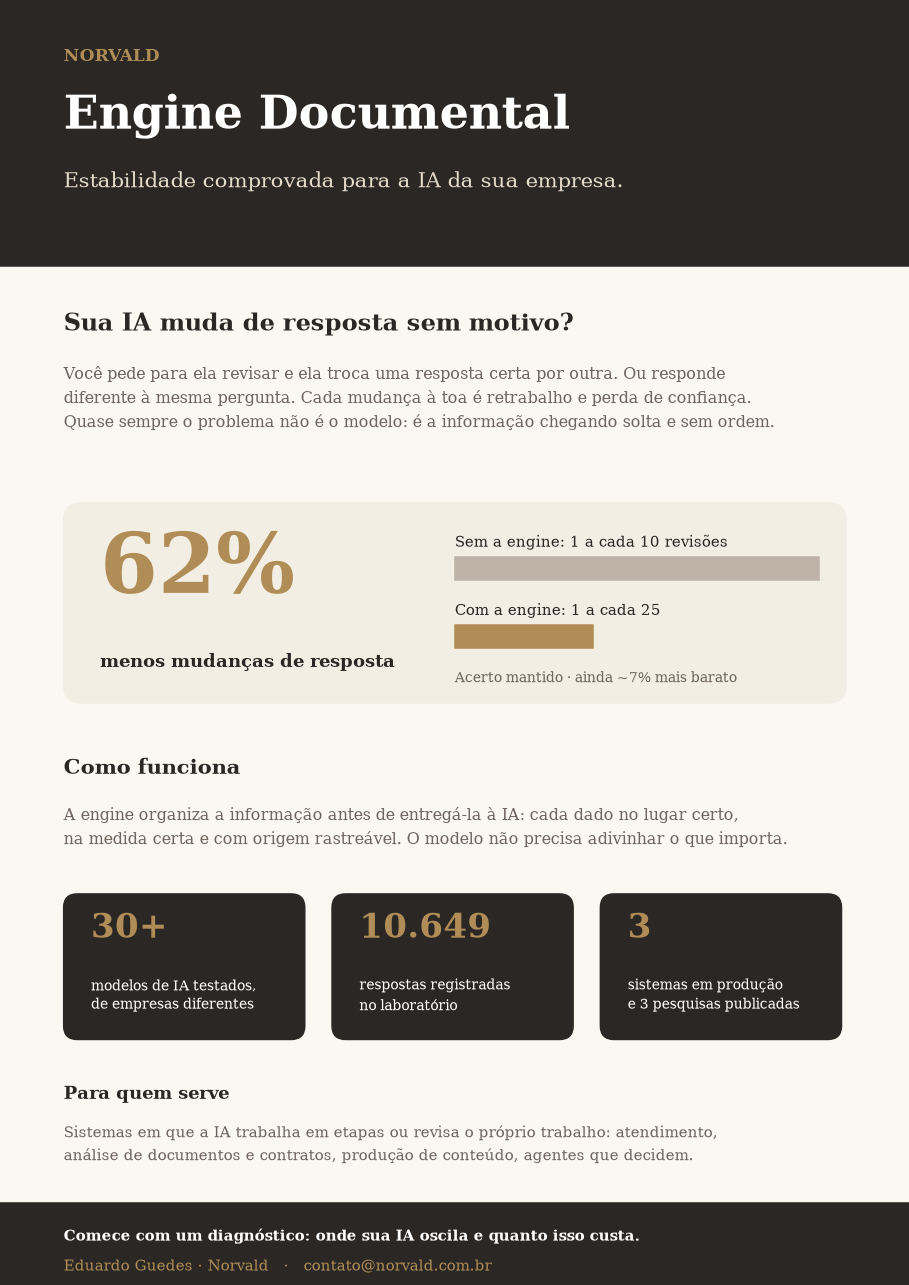
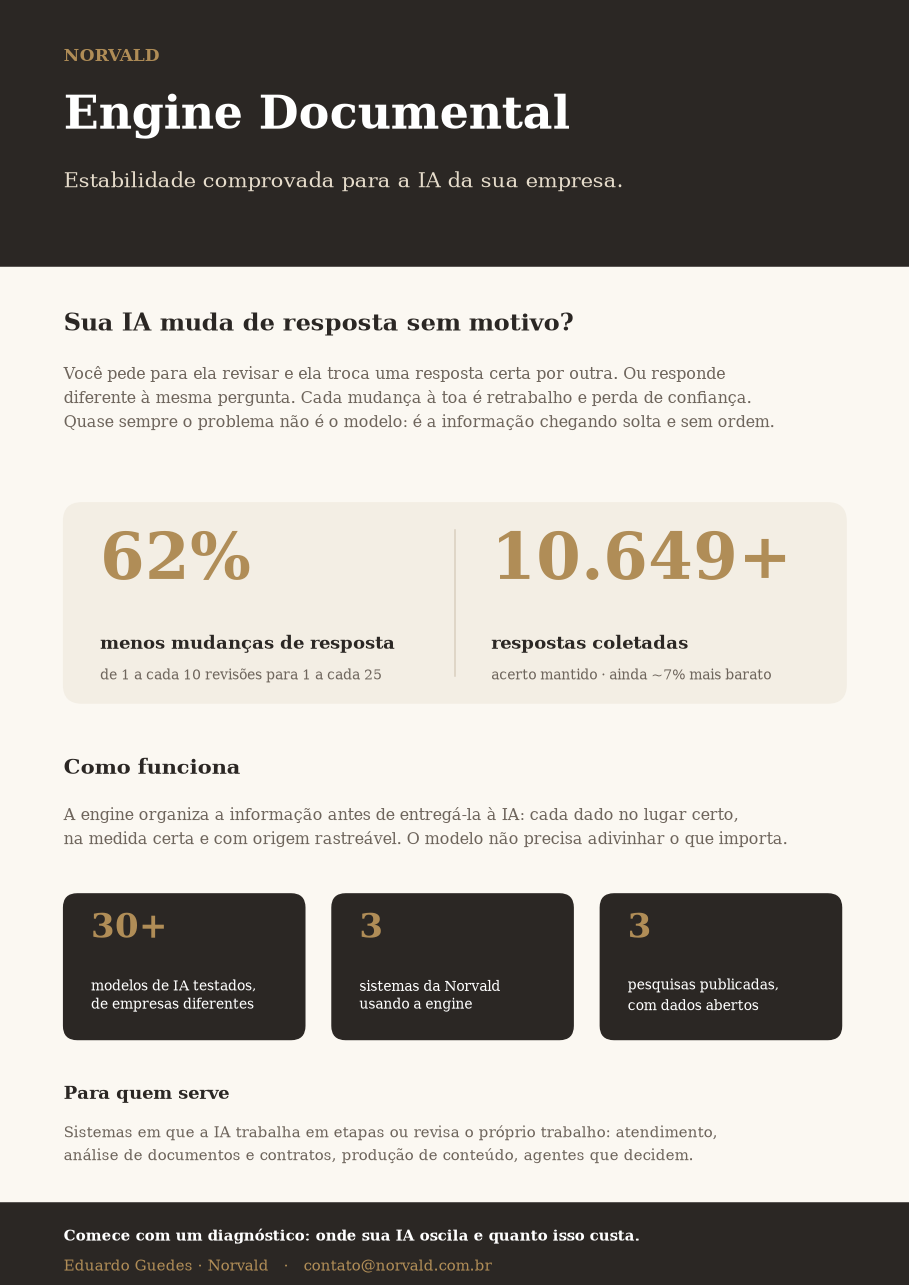
docs(divulgacao): 62% e 10.649+ lado a lado em destaque
Leitura pendente — proprietário. Pedido dele: os dois números em
destaque. Os blocos de baixo passam a 30+ modelos, 3 sistemas e 3
pesquisas, sem repetir o volume.

diff --git a/studies/herd/divulgacao/engine_pdf.py b/studies/herd/divulgacao/engine_pdf.py
@@ -25,17 +25,15 @@ t(7, 101.5, "Você pede para ela revisar e ela troca uma resposta certa por outr
             "Quase sempre o problema não é o modelo: é a informação chegando solta e sem ordem.",
   color=GREY, fontsize=10.5, linespacing=1.5)
 
-# Número grande
+# Dois números em destaque (15/11, pedido dele): resultado e volume de prova
 ax.add_patch(FancyBboxPatch((7, 64), 86, 22, boxstyle="round,pad=0,rounding_size=2", color=LIGHT))
-t(11, 83, "62%", color=CYAN, fontsize=54, weight="bold")
-t(11, 69.5, "menos mudanças de resposta", color=INK, fontsize=12, weight="bold")
-# barras 1 em 10 x 1 em 25
-for i, (lab, v, c) in enumerate([("Sem a engine: 1 a cada 10 revisões", 10.3, "#BDB3A6"),
-                                 ("Com a engine: 1 a cada 25", 3.9, CYAN)]):
-    y = 82.5 - i * 7.5
-    t(50, y, lab, color=INK, fontsize=9.5)
-    ax.add_patch(Rectangle((50, y - 5), 40 * v / 10.3, 2.6, color=c))
-t(50, 67.5, "Acerto mantido · ainda ~7% mais barato", color=GREY, fontsize=9)
+ax.plot([50, 50], [67, 83], color="#D9CFBF", lw=1)
+t(11, 83, "62%", color=CYAN, fontsize=42, weight="bold")
+t(11, 71.5, "menos mudanças de resposta", color=INK, fontsize=12, weight="bold")
+t(11, 67.8, "de 1 a cada 10 revisões para 1 a cada 25", color=GREY, fontsize=9)
+t(54, 83, "10.649+", color=CYAN, fontsize=42, weight="bold")
+t(54, 71.5, "respostas coletadas", color=INK, fontsize=12, weight="bold")
+t(54, 67.8, "acerto mantido · ainda ~7% mais barato", color=GREY, fontsize=9)
 
 # Como funciona
 t(7, 58, "Como funciona", color=INK, fontsize=14, weight="bold")
@@ -45,8 +43,8 @@ t(7, 53, "A engine organiza a informação antes de entregá-la à IA: cada dado
 
 # Provas em 3 colunas
 cols = [("30+", "modelos de IA testados,\nde empresas diferentes"),
-        ("10.649", "respostas registradas\nno laboratório"),
-        ("3", "sistemas em produção\ne 3 pesquisas publicadas")]
+        ("3", "sistemas da Norvald\nusando a engine"),
+        ("3", "pesquisas publicadas,\ncom dados abertos")]
 for i, (big, small) in enumerate(cols):
     x = 7 + i * 29.5
     ax.add_patch(FancyBboxPatch((x, 27), 26.5, 16, boxstyle="round,pad=0,rounding_size=1.5", color=NAVY))
